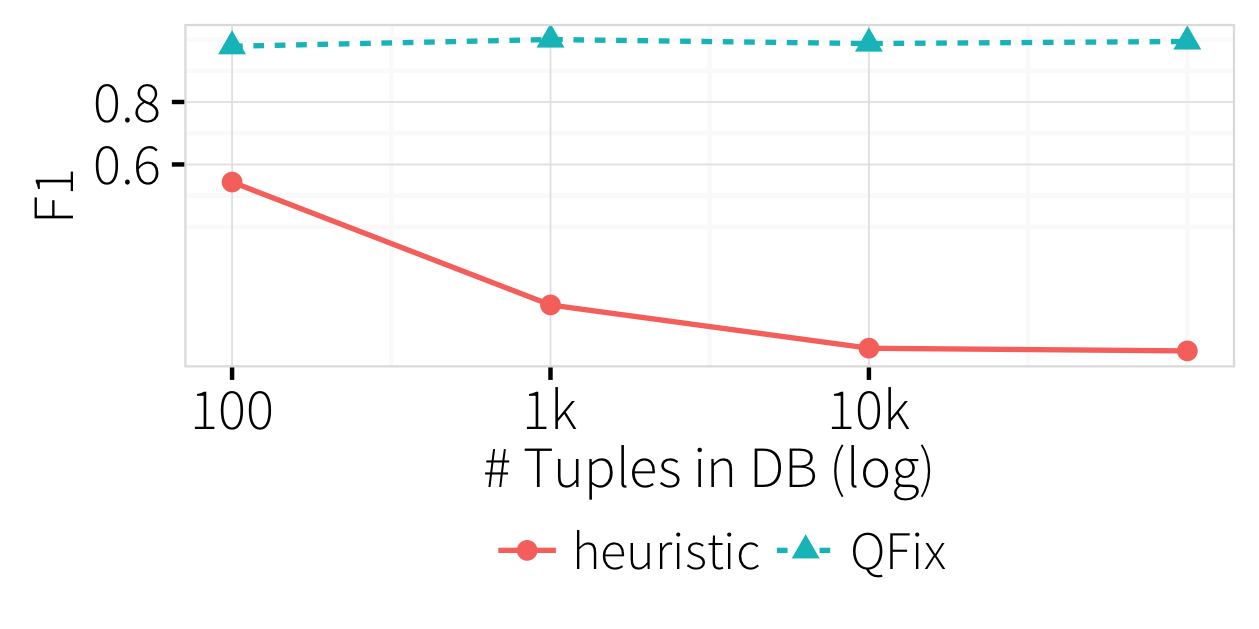
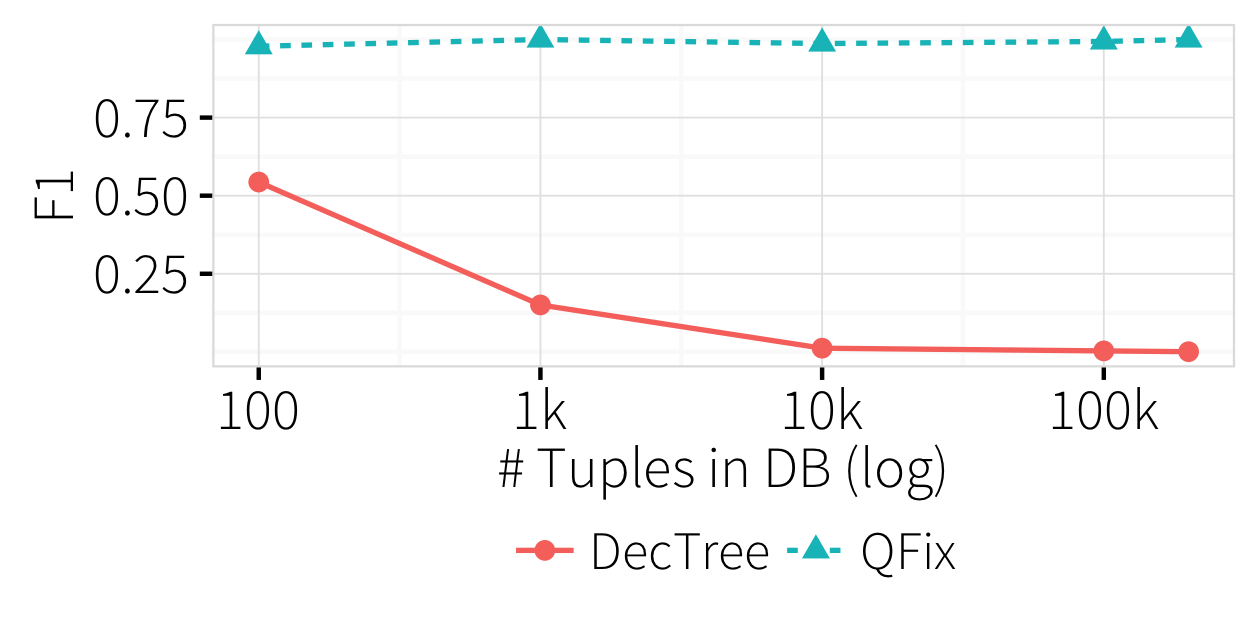
edit on appendix a

diff --git a/docs/vldb16/content/appendix.tex b/docs/vldb16/content/appendix.tex
@@ -13,17 +13,14 @@ We show that even in a simple case of a single query log and a complete complain
 We will first describe how to model the decision tree-based repair process, 
 present experimental results, and discuss the reasons for the poor accuracy of \dt.
 
-\ewu{If you say "insufficient theoretically and experimentally, you need to back it up with theoretical evidence!!}
-
 \subsection{Modeling Repairs with Decision Trees}
 
 \ewu{Justify why using decision trees is the right approach as compared to any other learning algorithm.  
 Probably because it is an exemplar rule-based learner, and we believe any other rule-based learner will face the same issues that we find here.}
 
-\ewu{Introduce the approach:} Rule-based learners are focused on classification, which naturally matches the goal of solving 
-errors in the WHERE clause, however they have no means for dealing with SET clauses, which directly modify data values.
-Thus, we take a two step approach, where we first use a classification-based rule learner to generate a repair for the WHERE clause,
-and use the modified query to identify repairs for the SET clause.
+\noindent \textbf{\dt Overview:} Rule-based learners are focused on classification, which naturally matches the goal of solving 
+errors in the \texttt{WHERE} clause, however they have no means for dealing with \texttt{SET} clauses, which directly modify data values.
+Thus, we take a two step approach, where we first use a classification-based rule learner to generate a repair for the \texttt{WHERE} clause, and use the modified query to identify repairs for the \texttt{SET} clause. 
 
 \noindent
 \textbf{Repairing the WHERE Clause:}
@@ -77,8 +74,8 @@ Directly solving for these variables will generate the desired repair for the \t
     \caption{Comparison on Accuracy. \ewu{fix yaxis to show .25, .5, .75}}
     \label{f:heuristic_acc} 
     \end{subfigure}
-    \label{f:heuristic}
    \caption{\dt compared with \sys}
+   \label{f:heuristic}
   \end{figure}
 
 
@@ -86,11 +83,14 @@ To illustrate these shortcomings, we compare \dt with \sys using a simplified ve
 We restrict the query log to contain a single query that is corrupted, use a complete complaint set  and vary the database size.
 The query follows the template:
 
+{\scriptsize
 \begin{verbatim}
-  XL DESCRIBE THE QUERY TEMPLATE
+   SET Clause:                WHERE Clause:
+  Constant: SET (a_i=?), ..   Range: WHERE a_j in [?,?+r] & ..
 \end{verbatim}
+}
 
-Figure~\ref{f:heuristic} shows that although the performance is better by \ewu{VERIFY:} a constant factor,
+Figure~\ref{f:heuristic} shows that although the performance is better by a constant factor ($\sim 2.5 \times$),
 \dt scales in a similar manner as \sys.  In addition, the F1-score is consistently below $0.5$ across all database sizes.
 From these empirical results, we find that \dt generates low-quality repairs under the simplest conditions---an approach
 that applies \dt one query at a time will have little hope.
